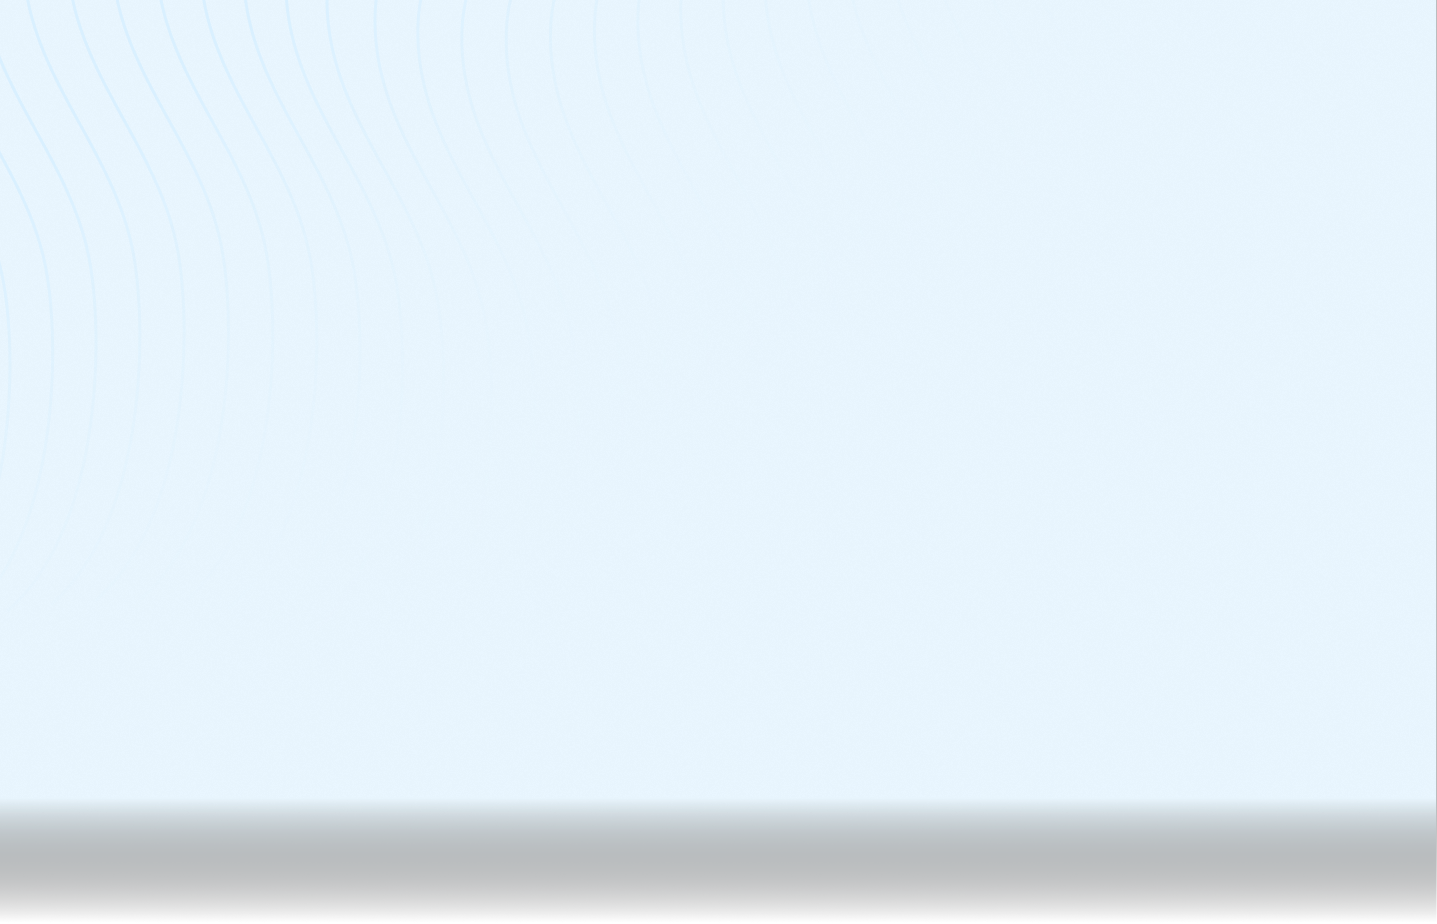
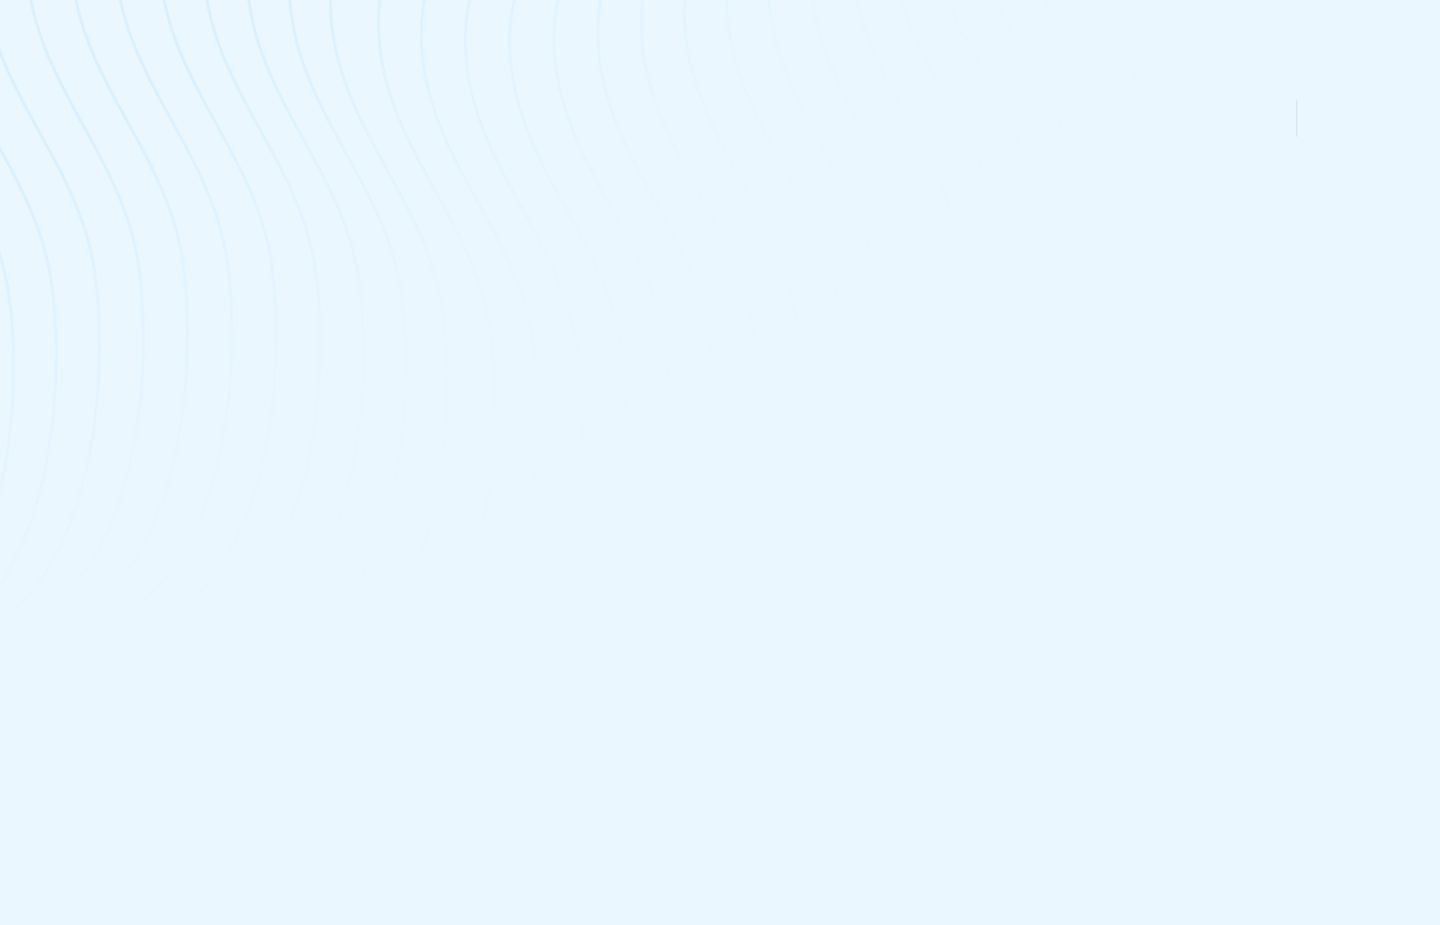
Loading - Saim

Changed region(s): [[0.0, 0.8485, 1.0, 1.0]]

diff --git a/src/views/Home.jsx b/src/views/Home.jsx
@@ -10,7 +10,10 @@ import BlobGreen2 from "../assets/img/blob-green2.png";
 import BlobYellow from "../assets/img/blob-yellow.svg";
 import BlobYellow2 from "../assets/img/blob-yellow2.png";
 import LogoLight from "./../assets/img/logo-light.svg";
-import HeroBgLight from "./../assets/img/hero-bg-light.png";
+import HeroBgLight from "./../assets/img/light-bg-without-clouds.png";
+import Cloud1 from "./../assets/img/cloud-1.png";
+import Cloud2 from "./../assets/img/cloud-2.png";
+import Cloud3 from "./../assets/img/cloud-3.png";
 import HeroBgLightMob from "./../assets/img/hero-bg-light-mob.png";
 import HeroBgDark from "./../assets/img/home-hero-bg-dark-pc.png";
 import HeroBgDarkMob from "./../assets/img/right-moon-mob.png";
@@ -75,15 +78,15 @@ const Home = () => {
     });
     const heroH1Lines = heroH1.lines; */
     let homeAnim = gsap.timeline({
-      delay: 1,
+      delay: 4,
     });
     homeAnim
-      /* .to(".home-loading", {
+      .to(".home-loading", {
         top: "-150%",
         duration: 1,
         ease: Power4.easeIn,
-      }) */
-      /* .to(
+      })
+      .to(
         ".home-loading",
         {
           opacity: 0,
@@ -91,7 +94,7 @@ const Home = () => {
           ease: Power4.easeIn,
         },
         "<0.5"
-      ) */
+      )
       .fromTo(
         ".swiper-slide-content",
         {
@@ -169,7 +172,7 @@ const Home = () => {
   return (
     <div className={`app ${isLightTheme ? "light-theme" : "dark-theme"}`}>
       {/* Loading Page */}
-      {/* <LoadingPage className="home-loading" /> */}
+      <LoadingPage className="home-loading" />
       {/* Header */}
       <Header
         changeToDarkTheme={changeToDarkTheme}

diff --git a/src/components/modules/Header.jsx b/src/components/modules/Header.jsx
@@ -20,7 +20,7 @@ import {
 const Header = (props) => {
   useEffect(() => {
     let headerAnim = gsap.timeline({
-      delay: 1,
+      delay: 4,
     });
     headerAnim
       .fromTo(
